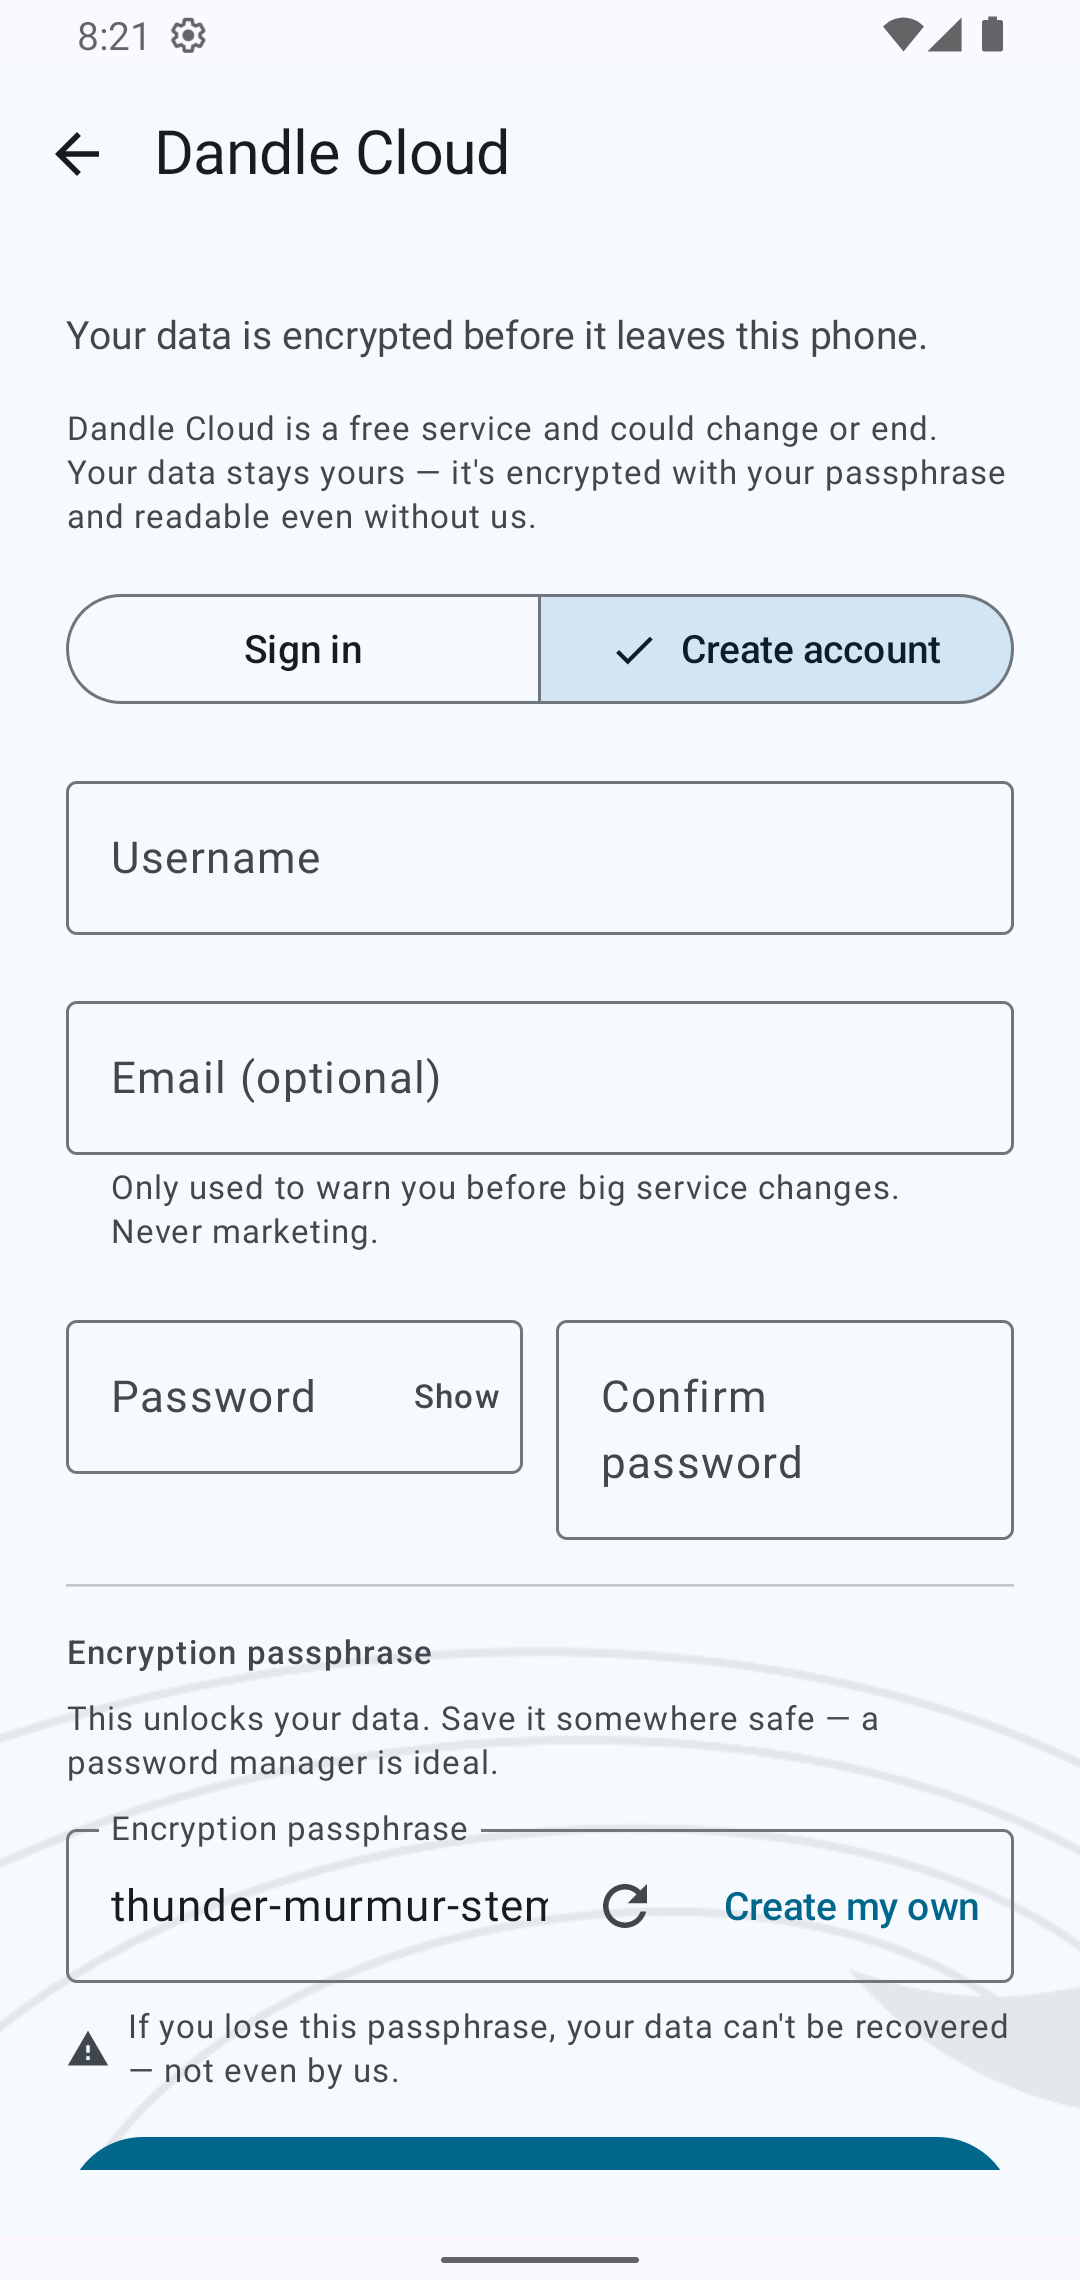
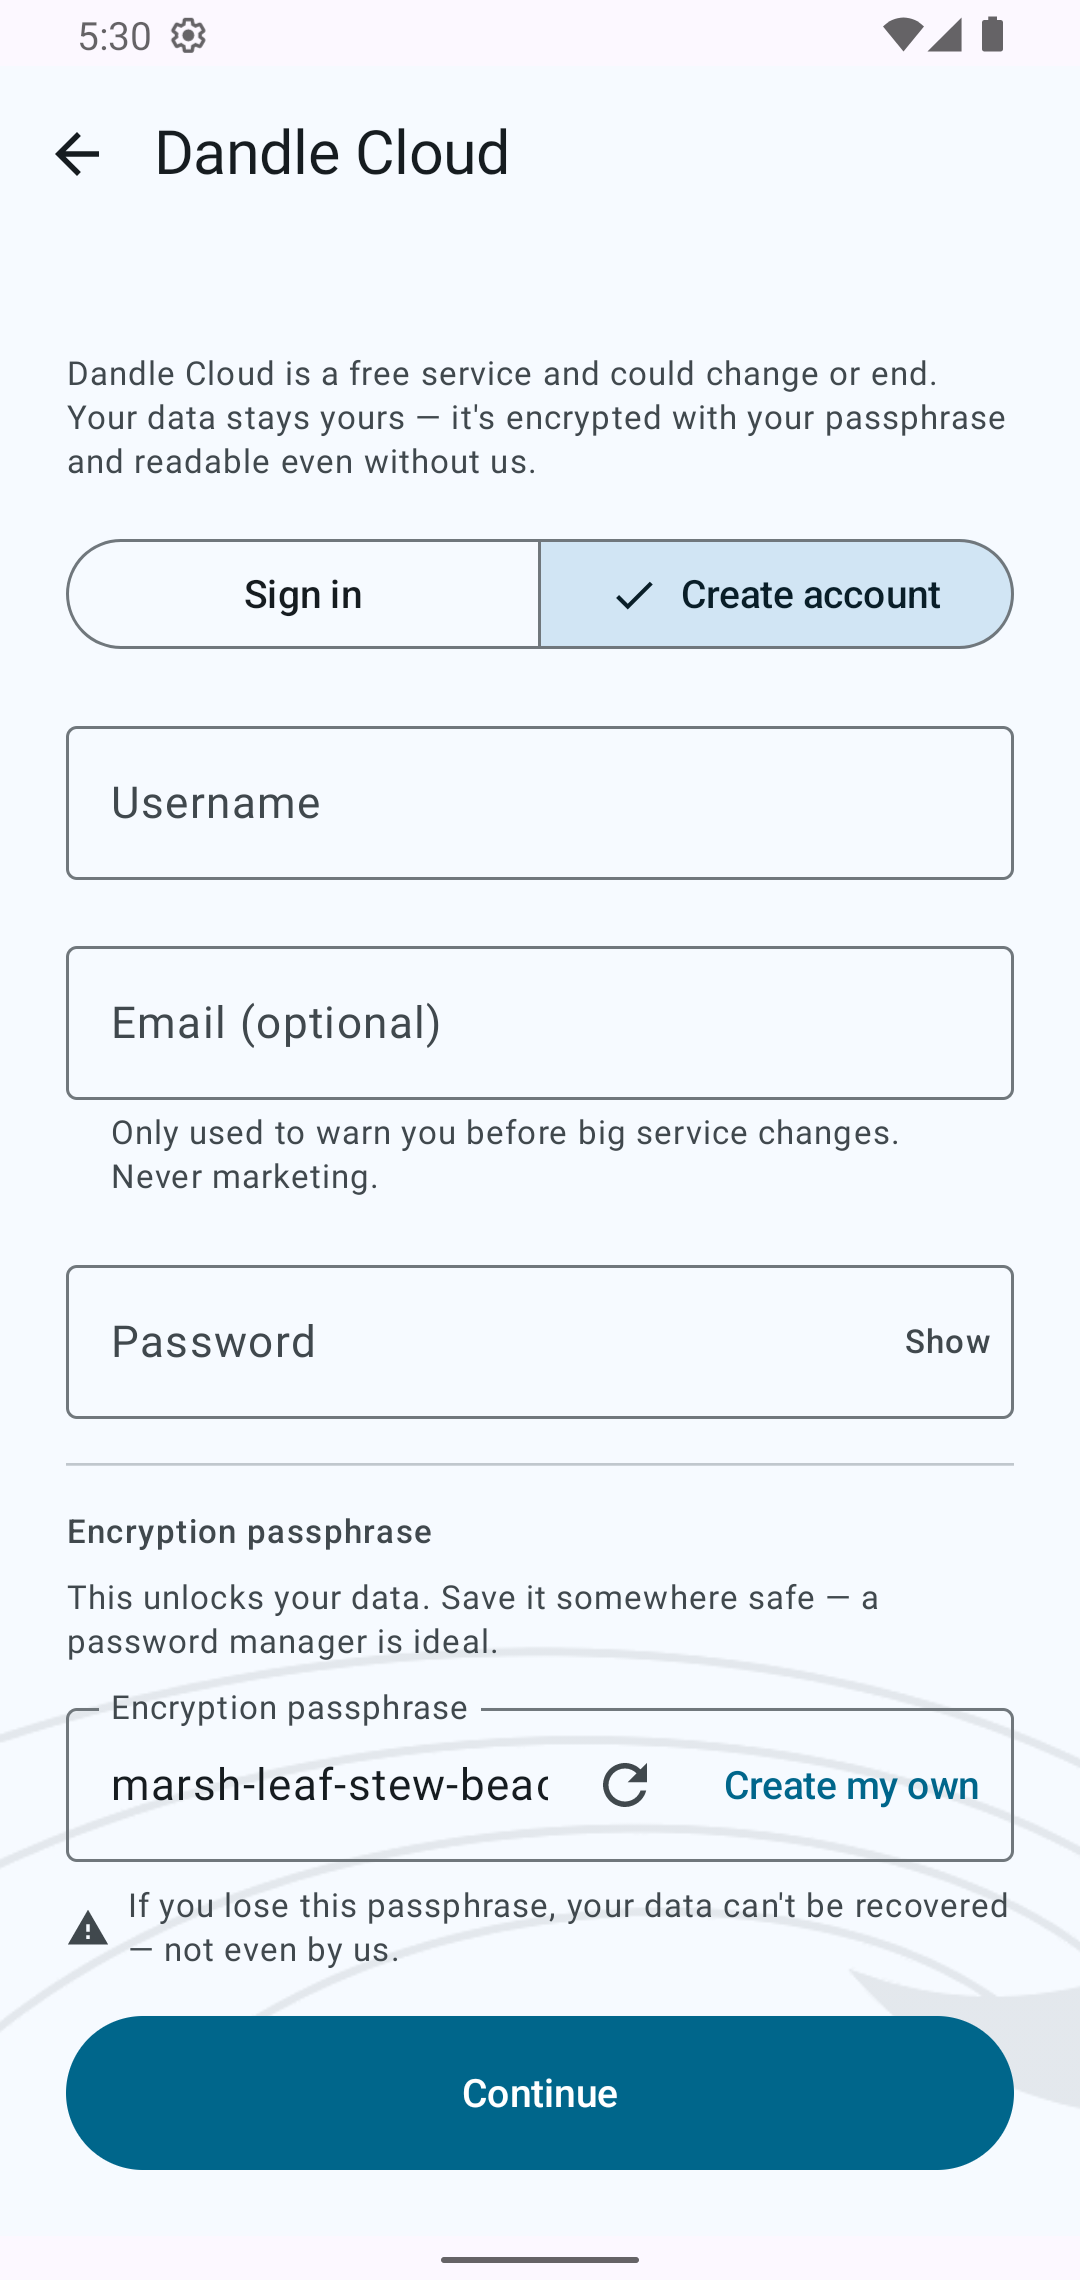
docs(qa): brief 06 amendment notes + refreshed cloud-create evidence shot

diff --git a/docs/flows/new-app/12-dandle-cloud-login.md b/docs/flows/new-app/12-dandle-cloud-login.md
@@ -9,7 +9,7 @@ title: "Flow verification: Dandle Cloud (encrypted sync)"
 ## How to verify
 
 1. Fresh state: tap `login/mode_cloud` → lead line "Your data is encrypted before it leaves this phone." with the muted service notice underneath (brief 06 §1): "Dandle Cloud is a free service and could change or end. Your data stays yours — it's encrypted with your passphrase and readable even without us." (`login/cloud_service_notice`).
-2. **Create account** tab (`login/cloud_tab/create`, brief 06 rework): Username → "Email (optional)" (`login/contact_email`, supporting "Only used to warn you before big service changes. Never marketing."; a non-blank value must contain "@", live error "That doesn't look like an email.") → Password + Confirm password side-by-side (live "Passwords don't match.") → a separated **Encryption passphrase** section (`login/cloud_passphrase_generate`) where the field arrives PRE-FILLED with a generated passphrase, READABLE, with Regenerate (`login/cloud_passphrase_regen`) and "Create my own" (`login/cloud_passphrase_custom` — clears to an editable obfuscated field, minimum 8 chars). The muted loss warning ("If you lose this passphrase, your data can't be recovered — not even by us.") is always visible. Continue (`login/cloud_passphrase_continue`) → **"Create your account · step 2 of 2"**: paste the passphrase (`login/cloud_passphrase_verify`); a wrong paste shows live "That doesn't match — paste it again." and gates submit; the matching paste enables `login/cloud_submit`. "Back" returns to the generate step with the passphrase kept. (The old confirm-passphrase field and the non-skippable "Save your passphrase somewhere safe." dialog are REMOVED — the two-step flow replaces them.)
+2. **Create account** tab (`login/cloud_tab/create`, brief 06 rework): Username → "Email (optional)" (`login/contact_email`, supporting "Only used to warn you before big service changes. Never marketing."; a non-blank value must contain "@", live error "That doesn't look like an email.") → a single Password field with a Show/Hide toggle (brief 06 amendment: NO adjacent confirm — NIST 800-63B + web.dev/NN/g endorse the toggle; password managers autofill both fields identically so the pair validates nothing) → a separated **Encryption passphrase** section (`login/cloud_passphrase_generate`) where the field arrives PRE-FILLED with a generated passphrase, READABLE, with Regenerate (`login/cloud_passphrase_regen`) and "Create my own" (`login/cloud_passphrase_custom` — clears to an editable obfuscated field, minimum 8 chars). The muted loss warning ("If you lose this passphrase, your data can't be recovered — not even by us.") is always visible. Continue (`login/cloud_passphrase_continue`) → **"Create your account · step 2 of 2"**: paste the passphrase (`login/cloud_passphrase_verify`); a wrong paste shows live "That doesn't match — paste it again." and gates submit; the matching paste enables `login/cloud_submit`. "Back" returns to the generate step with the passphrase kept. (The old confirm-passphrase field and the non-skippable "Save your passphrase somewhere safe." dialog are REMOVED — the two-step flow replaces them.)
 3. Create: correct paste → `login/cloud_submit` → child setup ("Your baby", lead "Add your baby to start syncing.") for a fresh account → dashboard. The child is pushed to the cloud ENCRYPTED (record id = the local child id); the push is best-effort — an offline failure never dead-ends sign-in and the next sync carries it. The contact email, when typed, rides createUser as `contact_email` (omitted when blank).
 4. Save an event (e.g. bottle feeding, amount 42) → row syncs.
 5. **Zero-knowledge check** (host-side): superuser-auth against `https://dandle.pockethost.io` (creds in `~/.config/dandle/pb-admin.env`; set a custom User-Agent — pockethost blocks python-urllib defaults) and read the user's `sync_records`: `type` and `client_updated` are plaintext (partial-encryption design, brief 05 §5.1), but `payload` must be base64 ciphertext with NO readable note/amount/child strings. The `users` record carries `wrapped_dek` + `enc_salt` + `enc_params` (and `contact_email` only if the user typed one).
@@ -17,7 +17,7 @@ title: "Flow verification: Dandle Cloud (encrypted sync)"
 7. **Wrong passphrase:** sign out → sign in with correct username/password but a wrong passphrase → banner **"That passphrase doesn't unlock this account's data."** — distinct from "Wrong username or password." (bad credentials).
 8. Cross-user isolation is pinned server-side by the collection rules (`user = @request.auth.id`, deleteRule null) — verified by the 2026-11-01 rules smoke (create/list/isolation/hard-delete-blocked/tombstone), see scripts/cloud/apply-schema.py.
 
-Tags: `login/mode_cloud`, `login/cloud_tab/sign_in`, `login/cloud_tab/create`, `login/cloud_username`, `login/contact_email`, `login/cloud_password`, `login/cloud_password_confirm`, `login/cloud_passphrase_generate`, `login/cloud_passphrase`, `login/cloud_passphrase_regen`, `login/cloud_passphrase_custom`, `login/cloud_passphrase_continue`, `login/cloud_passphrase_verify`, `login/cloud_passphrase_back`, `login/cloud_passphrase_warning`, `login/cloud_submit`, `login/cloud_service_notice`.
+Tags: `login/mode_cloud`, `login/cloud_tab/sign_in`, `login/cloud_tab/create`, `login/cloud_username`, `login/contact_email`, `login/cloud_password`, `login/cloud_passphrase_generate`, `login/cloud_passphrase`, `login/cloud_passphrase_regen`, `login/cloud_passphrase_custom`, `login/cloud_passphrase_continue`, `login/cloud_passphrase_verify`, `login/cloud_passphrase_back`, `login/cloud_passphrase_warning`, `login/cloud_submit`, `login/cloud_service_notice`.
 JVM tests: `PassphraseGeneratorTest` (wordlist hygiene + entropy ≥ 60 bits: 6 words × log2(512) + log2(100) = 60.64), `LoginModePickerTest` (GENERATE→VERIFY machine: pre-fill, wrong-paste re-error, correct paste → signUp with passphrase + contact email, create-my-own, regenerate, back-from-verify, sign-in one-step, password-confirm gate), `CryptoTest` (HKDF RFC 5869 vector, Argon2id determinism, envelope round-trip, wrong-passphrase distinctness, AAD ciphertext-swap rejection, fresh-nonce), `CloudBackendSignUpMappingTest` (`contact_email` rides createUser only when provided), `LocalBackendTest` LWW/tombstone merge policy (shared merge path).
 
 ## Observed (2026-11-01, build on emulator-5554)

diff --git a/docs/qa/FEATURE-CHECKLISTS.md b/docs/qa/FEATURE-CHECKLISTS.md
@@ -245,7 +245,7 @@ it on the emulator with screenshots archived under `docs/screenshots/`.
 4. Verify back behavior: any sub-flow's `login/back` returns to the picker with typed drafts intact.
 5. Verify session-expired re-auth lands directly on the URL step (no picker).
 
-**Tags:** `login/mode_device`, `login/mode_server`, `login/mode_cloud`, `login/back`, `login/child_name`, `login/child_birth_date`, `login/child_date_pick`, `login/child_submit`, `login/cloud_tab/sign_in`, `login/cloud_tab/create`, `login/cloud_username`, `login/contact_email`, `login/cloud_password`, `login/cloud_password_confirm`, `login/cloud_passphrase_generate`, `login/cloud_passphrase`, `login/cloud_passphrase_regen`, `login/cloud_passphrase_custom`, `login/cloud_passphrase_continue`, `login/cloud_passphrase_verify`, `login/cloud_passphrase_back`, `login/cloud_passphrase_warning`, `login/cloud_submit`, `login/cloud_service_notice`, `login/logo`, `login/background_art`.
+**Tags:** `login/mode_device`, `login/mode_server`, `login/mode_cloud`, `login/back`, `login/child_name`, `login/child_birth_date`, `login/child_date_pick`, `login/child_submit`, `login/cloud_tab/sign_in`, `login/cloud_tab/create`, `login/cloud_username`, `login/contact_email`, `login/cloud_password`, `login/cloud_passphrase_generate`, `login/cloud_passphrase`, `login/cloud_passphrase_regen`, `login/cloud_passphrase_custom`, `login/cloud_passphrase_continue`, `login/cloud_passphrase_verify`, `login/cloud_passphrase_back`, `login/cloud_passphrase_warning`, `login/cloud_submit`, `login/cloud_service_notice`, `login/logo`, `login/background_art`.
 
 **Expected server requests:** server mode unchanged (csrf → 302 → profile → children). Device mode: none. Cloud mode: PocketBase `auth-with-password` / user record create only at auth time.
 

diff --git a/docs/briefs/06-cloud-signup-hardening.md b/docs/briefs/06-cloud-signup-hardening.md
@@ -25,5 +25,14 @@ Tell users the truth about the cloud service, make them contactable before any s
    - Phishing-safety copy note on the verify step: keep the app context visible ("Create your account · step 2 of 2") — seed-phrase confirmation UX is a known phishing mimic pattern.
 5. **Docs:** flow 12 + checklist 14 updated; tags `login/cloud_passphrase_generate`, `login/cloud_passphrase_regen`, `login/cloud_passphrase_verify`, `login/contact_email`; schema script adds `contact_email`.
 
+## Amendment (2026-11-01, owner + research)
+The original §3 ("Password + Confirm password side-by-side") is REVERSED after research: the
+adjacent confirm field is the obsolete pattern — NIST 800-63B endorses the show-password toggle
+over re-entry; web.dev, Nielsen Norman, and 2025 guides (Authgear, UX Movement) document that
+confirm fields double errors while validating nothing (managers autofill both identically).
+SHIPPED: single Password field with Show/Hide; the only next-step confirmation is the
+passphrase paste-verify — reserved for the irrecoverable secret, where separate-step
+confirmation IS the standard (wallet seed-phrase practice).
+
 ## Non-goals
 Email verification/SMTP; passphrase recovery flows; changing sign-in; marketing use of the email (copy explicitly excludes it).
